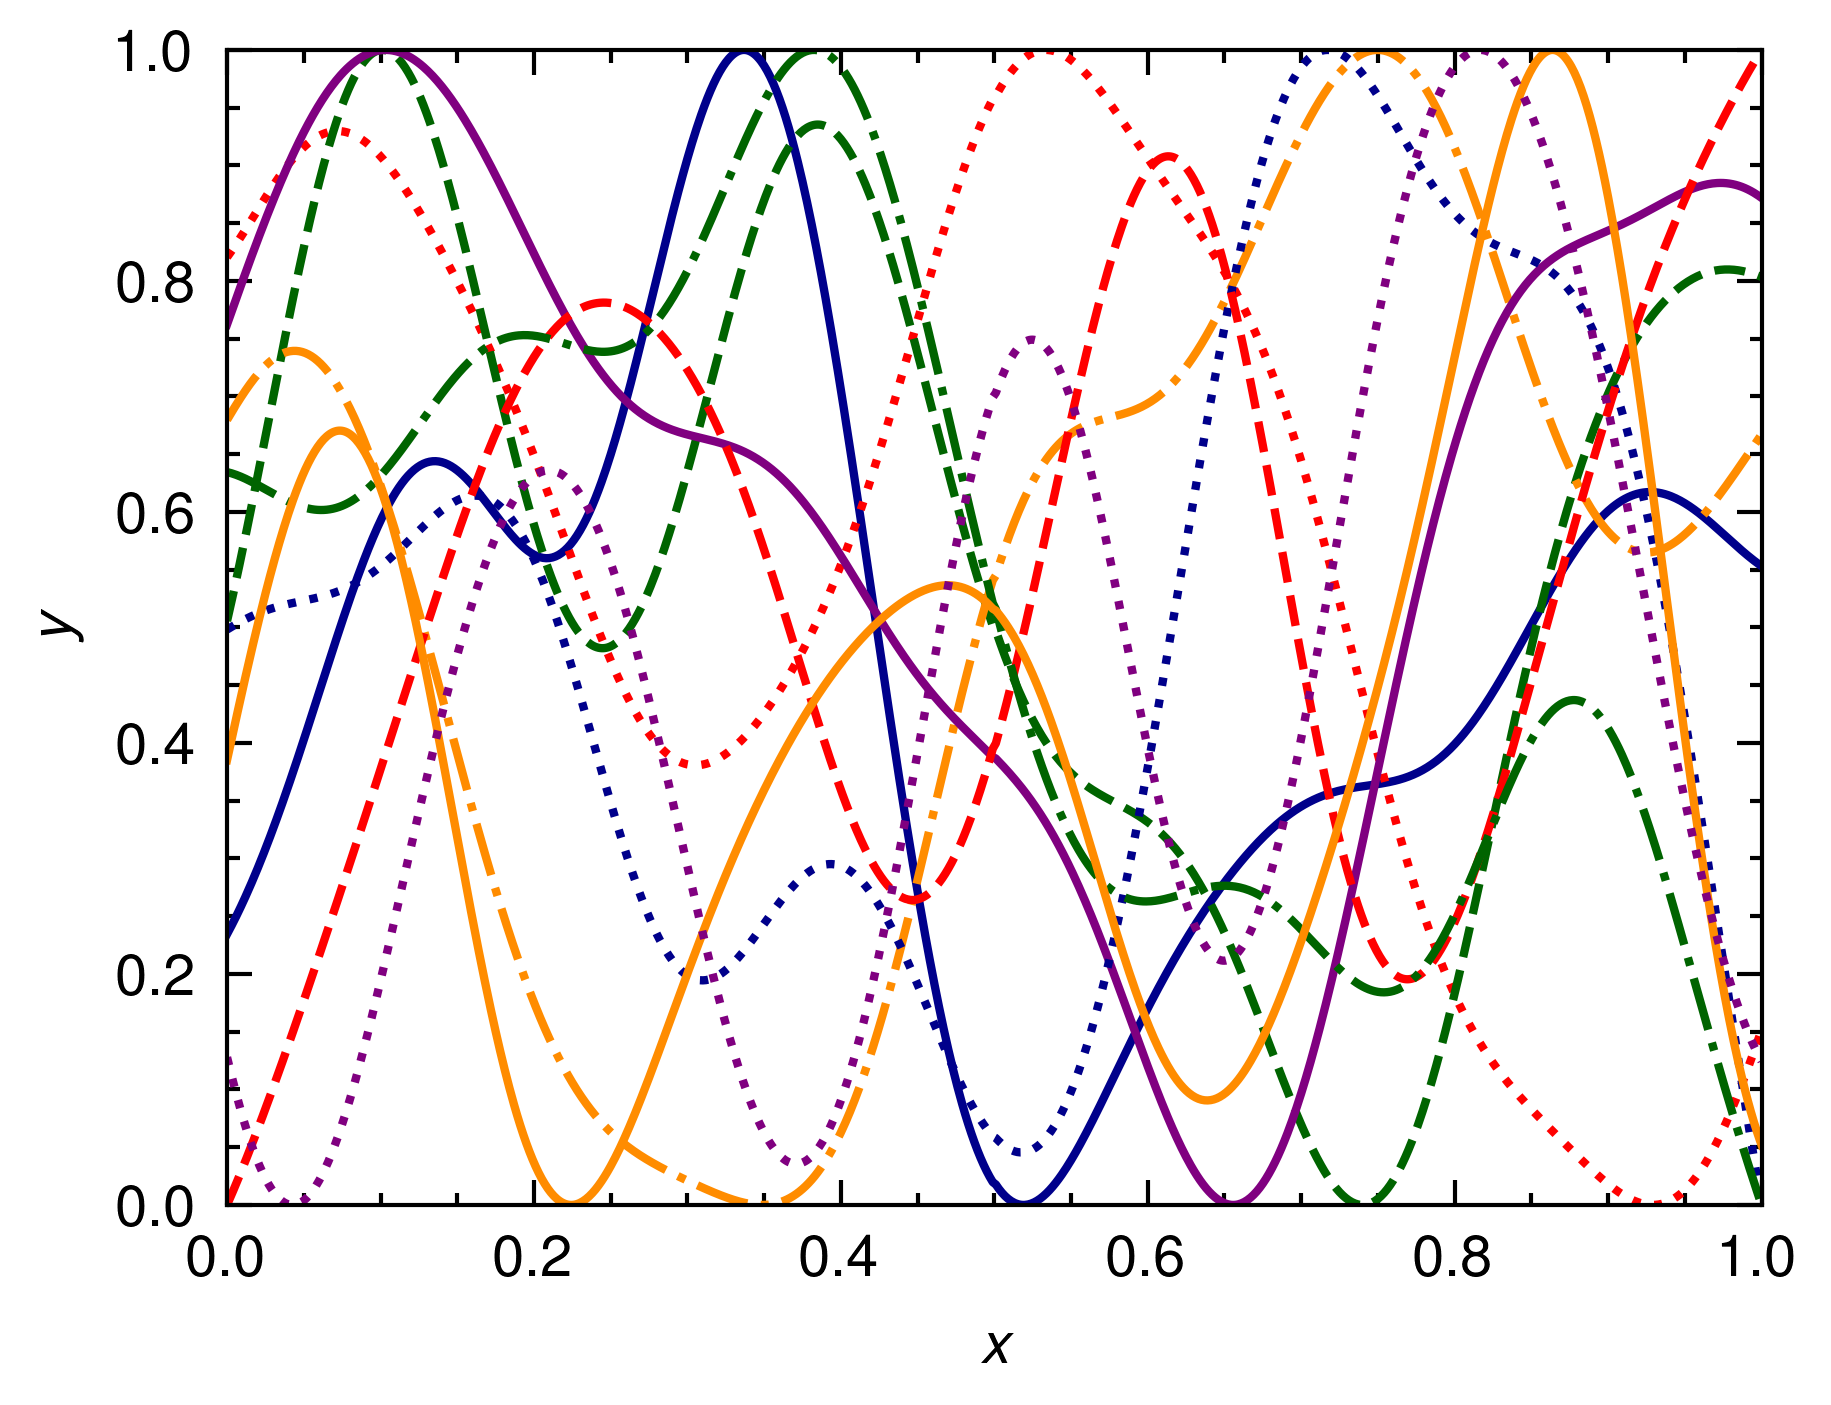
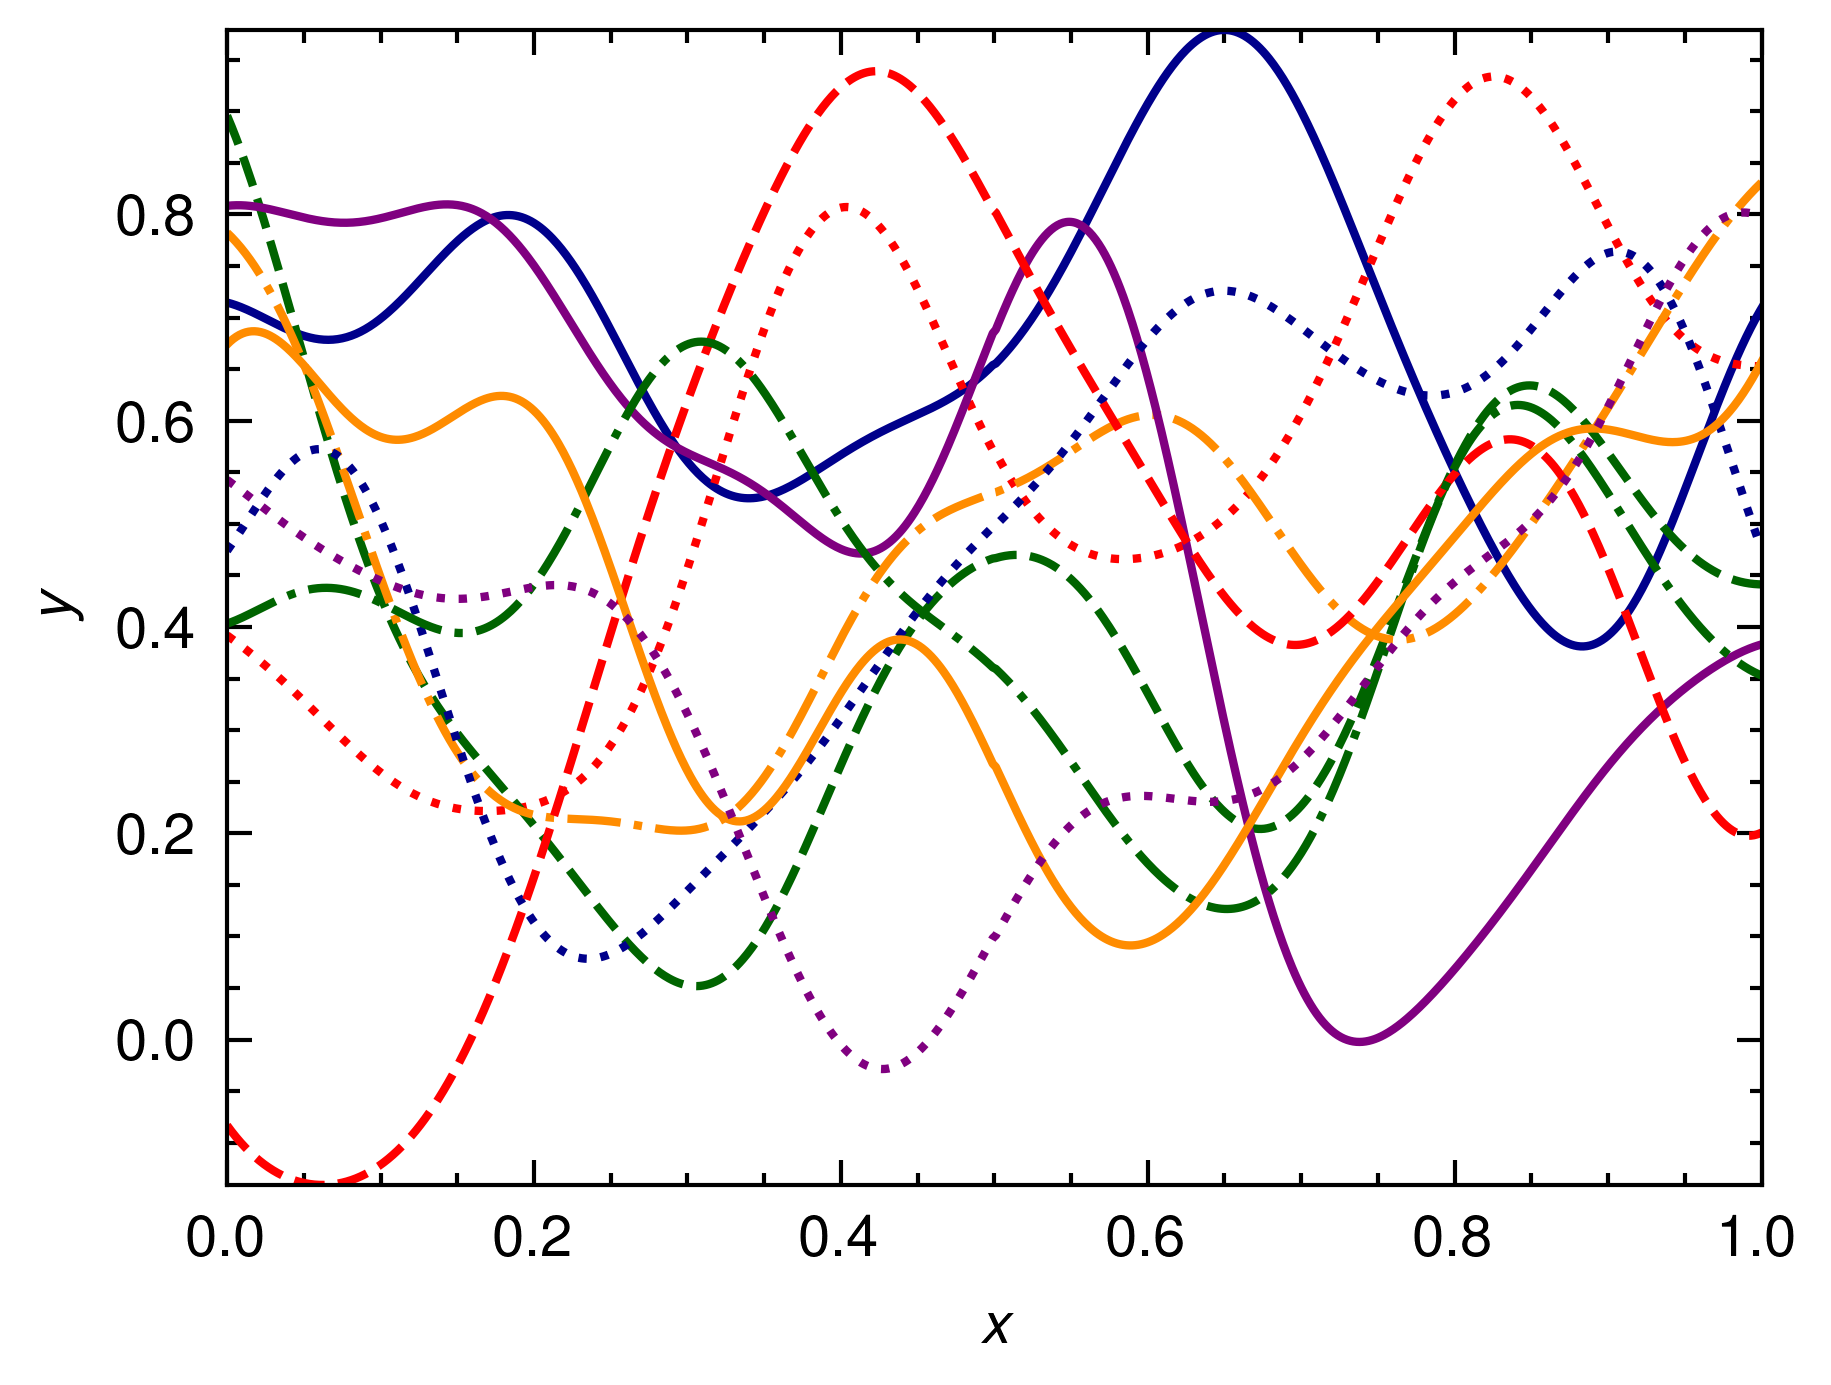
Change scaling method: all compact -> 1sigma

diff --git a/src/main.rs b/src/main.rs
@@ -19,9 +19,17 @@ fn main() {
         .map(|grf| grf.min())
         .collect::<Vec<_>>();
 
-    let grf_scaled = grf_vec.iter().zip(grf_max_vec.iter()).zip(grf_min_vec.iter())
-        .map(|((grf, max), min)| {
-            grf.fmap(|x| (x - min) / (max - min))
+    let grf_max_mean = grf_max_vec.mean();
+    let grf_max_std  = grf_max_vec.sd();
+    let grf_max_3sigma = grf_max_mean + 1.0 * grf_max_std;
+
+    let grf_min_mean = grf_min_vec.mean();
+    let grf_min_std  = grf_min_vec.sd();
+    let grf_min_3sigma = grf_min_mean - 1.0 * grf_min_std;
+
+    let grf_scaled = grf_vec.iter()
+        .map(|grf| {
+            grf.fmap(|x| (x - grf_min_3sigma) / (grf_max_3sigma - grf_min_3sigma))
         }).collect::<Vec<_>>();
 
     let x = linspace_with_precision(x_min, x_max, 1000, 3);
